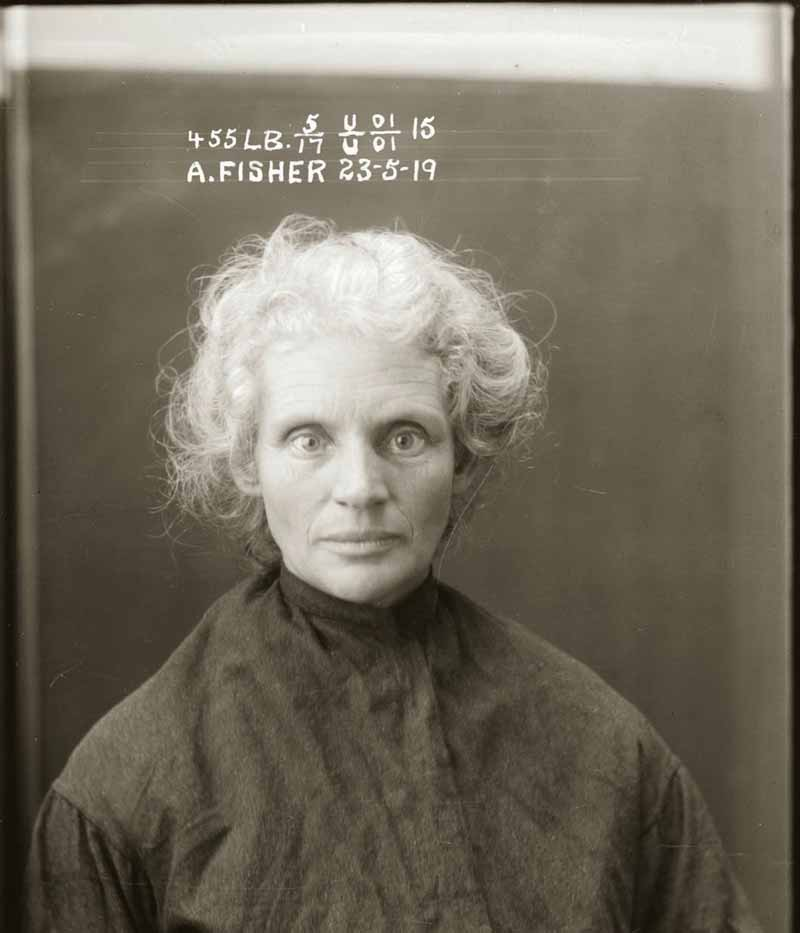
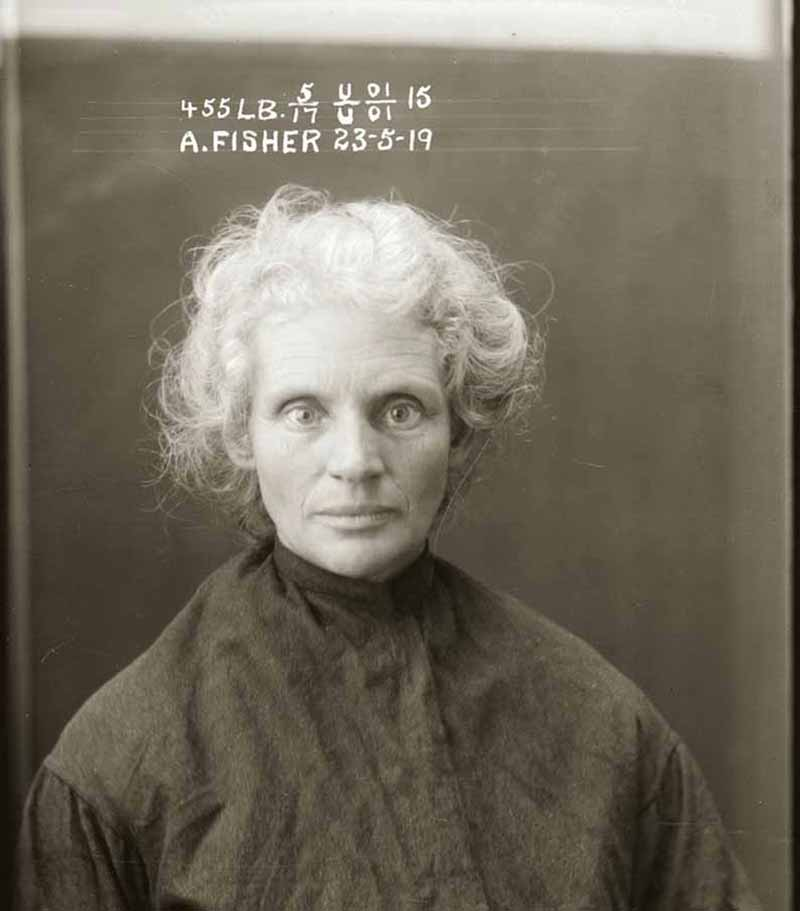
Added css elements
Added background color to box-1, added border image around both mug
shots. Fixed image size for mug shots.

diff --git a/index.html b/index.html
@@ -10,10 +10,10 @@
     <meta name="viewport" content="width=device-width,initial-scale-1">
 </head>
 <body>
-    
+
     <div class="island">
         <header class="masthead push">
-            <h1 class="title push-0 gutter">Wanted!</h1>
+        <h1 class="title push-0 gutter">Wanted!</h1>
         </header>
     </div>
     
@@ -25,11 +25,18 @@
         </div>
             
         <div class="box-1 unit unit-xs-1 unit-s-1 unit-m-1-3 unit-l-1-3"> 
-            <h2>for the crime of</h2>        
+            <h2>Reward</h2>     
+            <P>50,000</P>
+            <h3>For the following crimes </h3>
+            <ul>
+                <li>Space piracy</li>
+                <li>Illegal asteriod mining</li>
+                <li>Galactic treason</li>
+            </ul>
         </div>
                 
         <div class="unit unit-xs-1 unit-s-1 unit-m-1-3 unit-l-1-3 gutter">
-            <img class="img-flex img-border push" src="images/mug-shots-2.jpg" alt="mug-shot-2">
+            <img class="img-flex img-border push" src="images/mug-shot-2.jpg" alt="mug-shot-2">
         </div>
         
 

diff --git a/css/main.css b/css/main.css
@@ -30,7 +30,7 @@ a:visited {
 }
     
 .img-border {
-    border: 1px solid #4f9bd5;
+    border: url("../images/panel-border.png")center;
 }
     
 .masthead {
@@ -51,9 +51,31 @@ a:visited {
 }
 
 .box-1 {
-    background: brown;
+    background: #87714F;
 }
 
+h2 {
+    text-align: center;
+    padding-top: 2em;
+}
+
+h3 {
+    text-align: center;
+    font-size: 1.2em;
+}
+
+p {
+    text-align: center;
+    margin-top: 0e;
+    font-size: 1.5em;
+}
+
+ul {
+    font-size: 1em;
+    margin-top: 0;
+    padding-bottom: 1em;
+
+}
 
     
     
